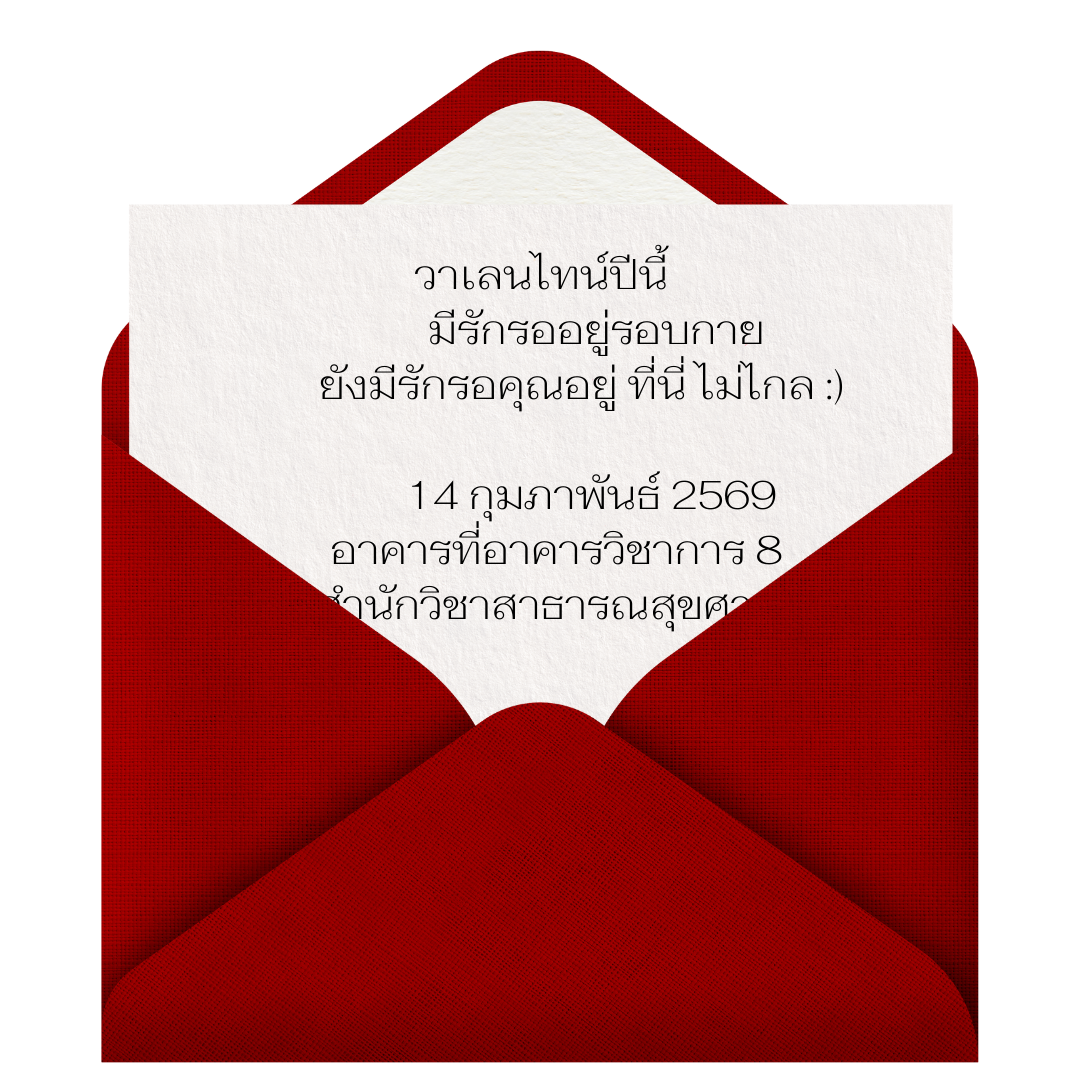
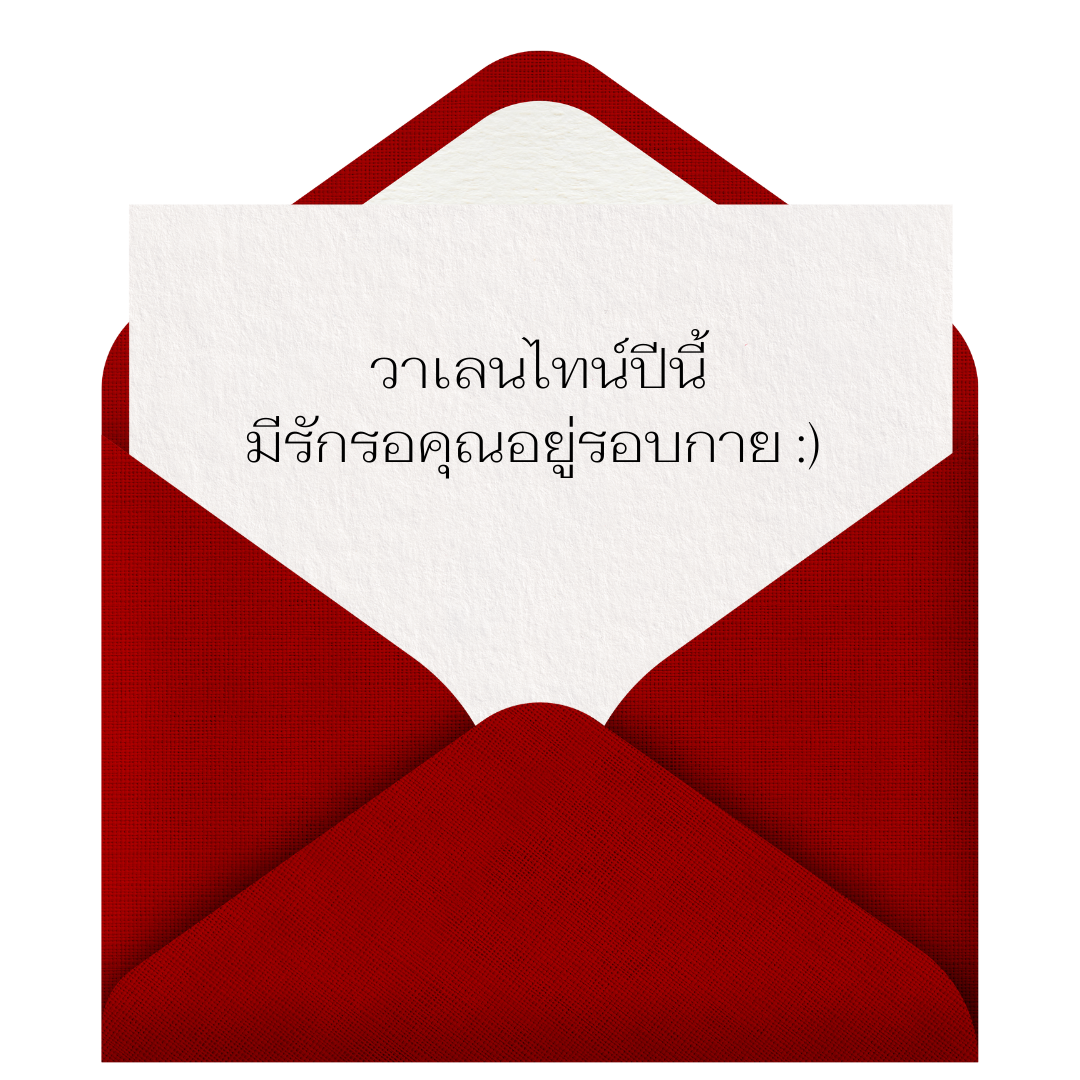
upload website

Changed region(s): [[0.2139, 0.2139, 0.7639, 0.5194], [0.3056, 0.55, 0.6722, 0.5806]]

diff --git a/index.html b/index.html
@@ -3,7 +3,7 @@
 <head>
   <meta charset="utf-8" />
   <meta name="viewport" content="width=device-width, initial-scale=1" />
-  <title>PHWU FEST</title>
+  <title>ข้อความถึงเธอ</title>
 
   <link rel="stylesheet" href="css/style.css" />
 </head>
@@ -13,8 +13,8 @@
   <div class="container">
     <div class="shell center">
 
-      <h4>PHWU FEST</h4>
-      <p class="subtle" id="hintText">ยิ้มหวานก่อนแตะซองเพื่อเปิด</p>
+      <h4>ข้อความถึงเธอ</h4>
+      <p class="subtle" id="hintText">แตะที่ซองจดหมายเพื่อเปิด</p>
 
       <img
         src="assets/letter1.png"
@@ -24,7 +24,6 @@
         draggable="false"
       />
 
-      <!-- ปุ่มด้านล่างซอง -->
       <div class="btn-row">
         <button class="btn" id="readBtn">แตะจดหมาย</button>
 

diff --git a/js/letter.js b/js/letter.js
@@ -11,13 +11,8 @@ let opening = false;
 let letterOpened = false;
 
 const MESSAGE = `
-วาเลนไทน์ปีนี้
-มีรักรออยู่รอบกาย 
-ยังมีรักรอคุณอยู่ ที่นี่ ไม่ไกล :)
-
-14 กุมภาพันธ์ 2569 
-📍อาคารที่อาคารวิชาการ 8 
-ตึกสำนักวิชาสาธารณสุขศาสตร์
+  วาเลนไทน์ปีนี้ 
+มีรักรอคุณอยู่รอบกาย :)
 `;
 
 // 📨 คลิกที่ซองจดหมาย
